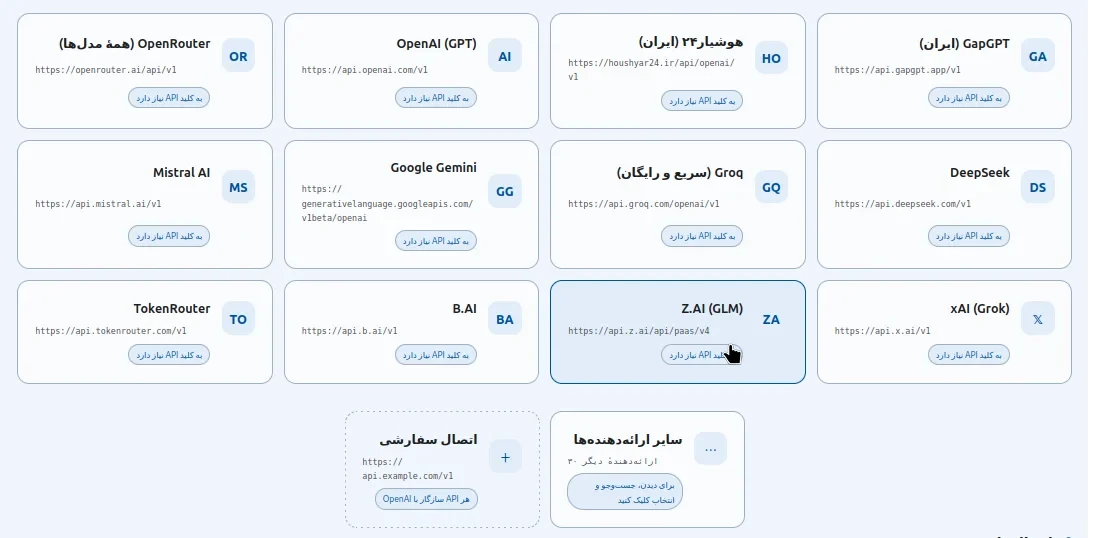
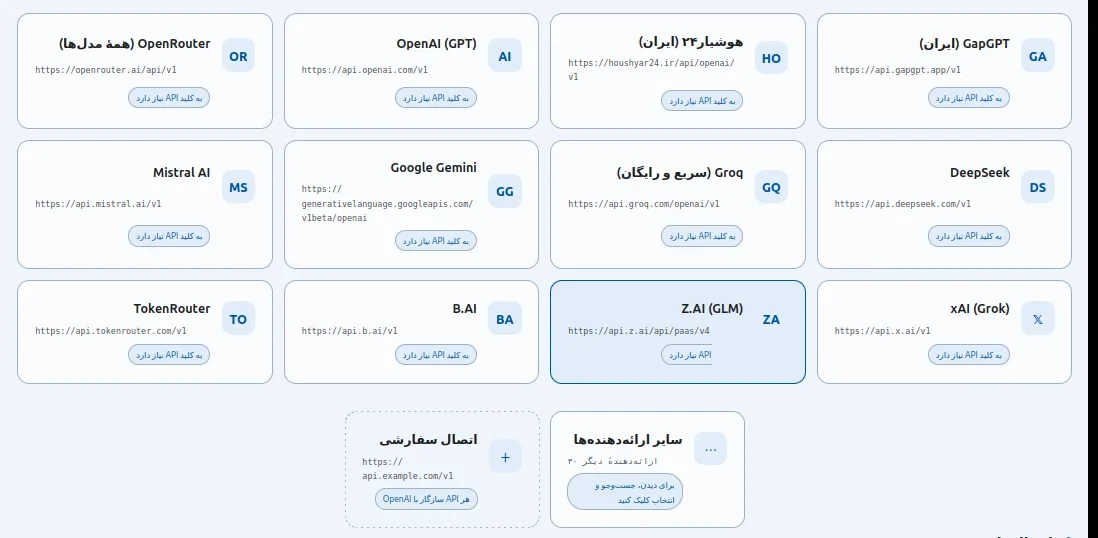
بهروزرسانی صفحه دمو بر اساس بازخورد
- رفع کشیدگی تصاویر: افزودن height:auto برای حفظ نسبت ابعاد اصلی
- حذف نشانگر ماوس از تصاویر providers و my-connects (ویرایش پیکسلی با inpainting)
- حذف دکمه گیتهاب از سربرگ و دکمه دریافت از گیتهاب از هیرو
- تغییر دستهبندی فرمان اول به «مواد غذایی»
- توسعهدهنده: ابوالفضل خادمی + حذف لینک گیتهاب از پاصفحه
- مکانیزم بارگذاری خودکار تصویر بخش راهنمای وبهوک (assets/webhook-guide.*)
- جایگذاری خودکار تصاویر کارت تأیید دستورها (assets/approvals/command-1,2.*)

Changed region(s): [[0.9909, 0.0, 1.0, 1.0], [0.6503, 0.6245, 0.6812, 0.684]]

diff --git a/index.html b/index.html
@@ -43,10 +43,6 @@
           <svg class="icon-moon" viewBox="0 0 24 24" fill="none" stroke="currentColor" stroke-width="2" stroke-linecap="round" stroke-linejoin="round"><path d="M21 12.8A9 9 0 1 1 11.2 3a7 7 0 0 0 9.8 9.8z"/></svg>
           <svg class="icon-sun" viewBox="0 0 24 24" fill="none" stroke="currentColor" stroke-width="2" stroke-linecap="round" stroke-linejoin="round"><circle cx="12" cy="12" r="4"/><path d="M12 2v2m0 16v2M4.9 4.9l1.4 1.4m11.4 11.4 1.4 1.4M2 12h2m16 0h2M4.9 19.1l1.4-1.4M17.7 6.3l1.4-1.4"/></svg>
         </button>
-        <a class="github-btn" href="https://github.com/sajjadinpython-lang/farmanyar-demo" target="_blank" rel="noopener">
-          <svg viewBox="0 0 24 24" fill="currentColor" aria-hidden="true"><path d="M12 .297c-6.63 0-12 5.373-12 12 0 5.303 3.438 9.8 8.205 11.385.6.113.82-.258.82-.577 0-.285-.01-1.04-.015-2.04-3.338.724-4.042-1.61-4.042-1.61C4.422 18.07 3.633 17.7 3.633 17.7c-1.087-.744.084-.729.084-.729 1.205.084 1.838 1.236 1.838 1.236 1.07 1.835 2.809 1.305 3.495.998.108-.776.417-1.305.76-1.605-2.665-.3-5.466-1.332-5.466-5.93 0-1.31.465-2.38 1.235-3.22-.135-.303-.54-1.523.105-3.176 0 0 1.005-.322 3.3 1.23.96-.267 1.98-.399 3-.405 1.02.006 2.04.138 3 .405 2.28-1.552 3.285-1.23 3.285-1.23.645 1.653.24 2.873.12 3.176.765.84 1.23 1.91 1.23 3.22 0 4.61-2.805 5.625-5.475 5.92.42.36.81 1.096.81 2.22 0 1.606-.015 2.896-.015 3.286 0 .315.21.69.825.57C20.565 22.092 24 17.592 24 12.297c0-6.627-5.373-12-12-12"/></svg>
-          <span>گیتهاب</span>
-        </a>
       </div>
     </div>
   </header>
@@ -78,9 +74,9 @@
               مشاهده امکانات
               <svg viewBox="0 0 24 24" fill="none" stroke="currentColor" stroke-width="2" stroke-linecap="round" stroke-linejoin="round"><path d="M12 5v14m7-7-7 7-7-7"/></svg>
             </a>
-            <a class="btn btn-ghost" href="https://github.com/sajjadinpython-lang/farmanyar-demo" target="_blank" rel="noopener">
-              <svg viewBox="0 0 24 24" fill="currentColor" aria-hidden="true"><path d="M12 .297c-6.63 0-12 5.373-12 12 0 5.303 3.438 9.8 8.205 11.385.6.113.82-.258.82-.577 0-.285-.01-1.04-.015-2.04-3.338.724-4.042-1.61-4.042-1.61C4.422 18.07 3.633 17.7 3.633 17.7c-1.087-.744.084-.729.084-.729 1.205.084 1.838 1.236 1.838 1.236 1.07 1.835 2.809 1.305 3.495.998.108-.776.417-1.305.76-1.605-2.665-.3-5.466-1.332-5.466-5.93 0-1.31.465-2.38 1.235-3.22-.135-.303-.54-1.523.105-3.176 0 0 1.005-.322 3.3 1.23.96-.267 1.98-.399 3-.405 1.02.006 2.04.138 3 .405 2.28-1.552 3.285-1.23 3.285-1.23.645 1.653.24 2.873.12 3.176.765.84 1.23 1.91 1.23 3.22 0 4.61-2.805 5.625-5.475 5.92.42.36.81 1.096.81 2.22 0 1.606-.015 2.896-.015 3.286 0 .315.21.69.825.57C20.565 22.092 24 17.592 24 12.297c0-6.627-5.373-12-12-12"/></svg>
-              دریافت از گیتهاب
+            <a class="btn btn-ghost" href="#samples">
+              <svg viewBox="0 0 24 24" fill="none" stroke="currentColor" stroke-width="2" stroke-linecap="round" stroke-linejoin="round"><path d="M21 15a2 2 0 0 1-2 2H7l-4 4V5a2 2 0 0 1 2-2h14a2 2 0 0 1 2 2Z"/></svg>
+              نمونه دستورها
             </a>
           </div>
           <p class="tagline">فرمان بدهید — فروشگاه اجرا میکند!</p>
@@ -341,8 +337,8 @@
         <div class="shot-col">
           <figure class="shot">
             <div class="shot-bar"><i></i><i></i><i></i><span class="shot-title">webhook setup</span></div>
-            <img src="assets/telegram.webp" alt="فعالسازی وبهوک ربات تلگرام در تب امنیت فرمانیار" loading="lazy" width="1220" height="353">
-            <figcaption>فعالسازی وبهوک از تب «امنیت» انجام میشود</figcaption>
+            <img id="webhookShot" src="assets/telegram.webp" alt="راهنمای فعالسازی وبهوک ربات تلگرام در فرمانیار" loading="lazy" width="1220" height="353">
+            <figcaption>راهنمای فعالسازی وبهوک در فرمانیار</figcaption>
           </figure>
         </div>
         <div>
@@ -419,10 +415,10 @@
       <div class="cmd-card reveal">
         <div>
           <div class="cmd-bubble">
-            قیمت همهٔ محصولات دستهبندی «کفش ورزشی» را ۱۰٪ افزایش بده و روی کالاهایی که موجودیشان کمتر از ۳ عدد است، تخفیف ۱۵٪ بگذار.
+            قیمت همهٔ محصولات دستهبندی «مواد غذایی» را ۱۰٪ افزایش بده و روی کالاهایی که موجودیشان کمتر از ۳ عدد است، تخفیف ۱۵٪ بگذار.
           </div>
           <ul class="cmd-flow">
-            <li><b>جستوجوی محصولات:</b> فرمانیار محصولات دستهٔ «کفش ورزشی» را پیدا میکند و موجودی هر یک را بررسی میکند.</li>
+            <li><b>جستوجوی محصولات:</b> فرمانیار محصولات دستهٔ «مواد غذایی» را پیدا میکند و موجودی هر یک را بررسی میکند.</li>
             <li><b>کارت تأیید مدیر:</b> فهرست تغییرات پیشنهادی — قیمت قبل و بعد، تعداد اقلام مشمول تخفیف — برای شما نمایش داده میشود.</li>
             <li><b>اجرای گروهی:</b> با تأیید شما، تا ۲۰۰ محصول در یک فراخوانی بهروزرسانی میشود و گزارش نتیجه را میگیرید.</li>
           </ul>
@@ -499,8 +495,7 @@
       <p>فرقی نمیکند تازه فروشگاه زده باشید یا فروشگاهی شلوغ با صدها محصول داشته باشید؛ فرمانیار زمان شما را آزاد میکند تا به جای کارهای تکراری، به رشد کسبوکارتان فکر کنید.</p>
       <div class="footer-meta">
         <span>فرمانیار · نسخه ۳٫۱٫۰</span>
-        <span>توسعهدهنده: <a href="https://github.com/sajjadinpython-lang" target="_blank" rel="noopener">سجاد خودامی</a></span>
-        <a href="https://github.com/sajjadinpython-lang/farmanyar-demo" target="_blank" rel="noopener">کد منبع در گیتهاب</a>
+        <span>توسعهدهنده: ابوالفضل خادمی</span>
       </div>
     </div>
   </footer>

diff --git a/style.css b/style.css
@@ -149,24 +149,6 @@ section:nth-of-type(even) { background: var(--surface); border-block: 1px solid 
 [data-theme="dark"] .theme-toggle .icon-sun { display: block; }
 [data-theme="dark"] .theme-toggle .icon-moon { display: none; }
 
-.github-btn {
-  display: inline-flex;
-  align-items: center;
-  gap: 8px;
-  padding: 9px 18px;
-  border-radius: 12px;
-  background: var(--ink);
-  color: var(--bg);
-  font-weight: 600;
-  font-size: .9rem;
-  border: 1px solid transparent;
-  transition: opacity .2s, transform .2s, border-color .2s;
-}
-.github-btn:hover { opacity: .88; color: var(--bg); transform: translateY(-1px); }
-[data-theme="dark"] .github-btn { background: var(--surface); color: var(--ink); border-color: var(--line); }
-[data-theme="dark"] .github-btn:hover { color: var(--ink); border-color: var(--accent); }
-.github-btn svg { width: 18px; height: 18px; }
-
 /* ── قهرمان صفحه (Hero) ────────────────────── */
 .hero { padding: 88px 0 72px; position: relative; overflow: hidden; }
 
@@ -206,6 +188,7 @@ section:nth-of-type(even) { background: var(--surface); border-block: 1px solid 
 }
 .hero-logo img {
   width: min(300px, 100%);
+  height: auto;
   filter: drop-shadow(0 24px 42px rgba(37, 99, 235, .25));
   animation: float 6s ease-in-out infinite;
 }
@@ -432,7 +415,12 @@ section:nth-of-type(even) { background: var(--surface); border-block: 1px solid 
   padding: 1px 12px;
   direction: ltr;
 }
-.shot img { width: 100%; border-radius: 10px; border: 1px solid var(--line); }
+.shot img {
+  width: 100%;
+  height: auto;               /* حفظ نسبت ابعاد اصلی — بدون کشیدگی */
+  border-radius: 10px;
+  border: 1px solid var(--line);
+}
 .shot figcaption {
   text-align: center;
   font-size: .8rem;
@@ -780,7 +768,5 @@ section:nth-of-type(even) { background: var(--surface); border-block: 1px solid 
   .hero { padding: 56px 0 48px; }
   .grid-3, .layers, .install-grid, .stats { grid-template-columns: 1fr; }
   .main-nav { display: none; }
-  .github-btn span { display: none; }
-  .github-btn { padding: 9px 12px; }
   .cmd-card, .f-card { padding: 22px 18px; }
 }

diff --git a/script.js b/script.js
@@ -39,6 +39,28 @@
     reveals.forEach(function (el) { el.classList.add('in'); });
   }
 
+  /* ── تصویر بخش راهنمای فعالسازی وبهوک ──────
+     تصویر اختصاصی این بخش را با نام webhook-guide و هر یک از
+     پسوندهای زیر در پوشهٔ assets قرار دهید؛ در صورت نبودِ فایل،
+     تصویر پیشفرض (telegram.webp) نمایش داده میشود. */
+  var webhookImg = document.getElementById('webhookShot');
+  if (webhookImg) {
+    var wIdx = 0;
+    var wExts = ['png', 'webp', 'jpg', 'jpeg', 'gif'];
+
+    function tryWebhook() {
+      if (wIdx >= wExts.length) {
+        /* تصویر اختصاصی پیدا نشد — پیشفرض */
+        webhookImg.src = 'assets/telegram.webp';
+        return;
+      }
+      webhookImg.src = 'assets/webhook-guide.' + wExts[wIdx++];
+    }
+
+    webhookImg.addEventListener('error', tryWebhook);
+    tryWebhook();
+  }
+
   /* ── تصاویر کارت تأیید (نمونه دستورها) ──────
      فایل را با هر یک از این پسوندها در پوشهٔ
      assets/approvals قرار دهید؛ خودکار پیدا و نمایش داده میشود. */

diff --git a/README.md b/README.md
@@ -44,6 +44,16 @@ Settings → Pages → Branch: main → Save
 یعنی `command-1.webp` هم کار میکند. تا زمانی که فایل قرار نگرفته باشد، یک راهنمای
 جایگذاری (Placeholder) نمایش داده میشود.
 
+## تصویر بخش «راهنمای فعالسازی وبهوک»
+
+تصویر اختصاصی این بخش را با نام `webhook-guide` (با هر یک از پسوندهای `png`، `webp`،
+`jpg`، `jpeg`، `gif`) در پوشه `assets/` قرار دهید تا بهصورت خودکار جایگزین تصویر
+پیشفرض شود:
+
+```
+assets/webhook-guide.png
+```
+
 ## امکانات صفحه
 
 - طراحی مینیمال با تم **روشن و تاریک** (مطابق تم افزونه) و ذخیره انتخاب کاربر
